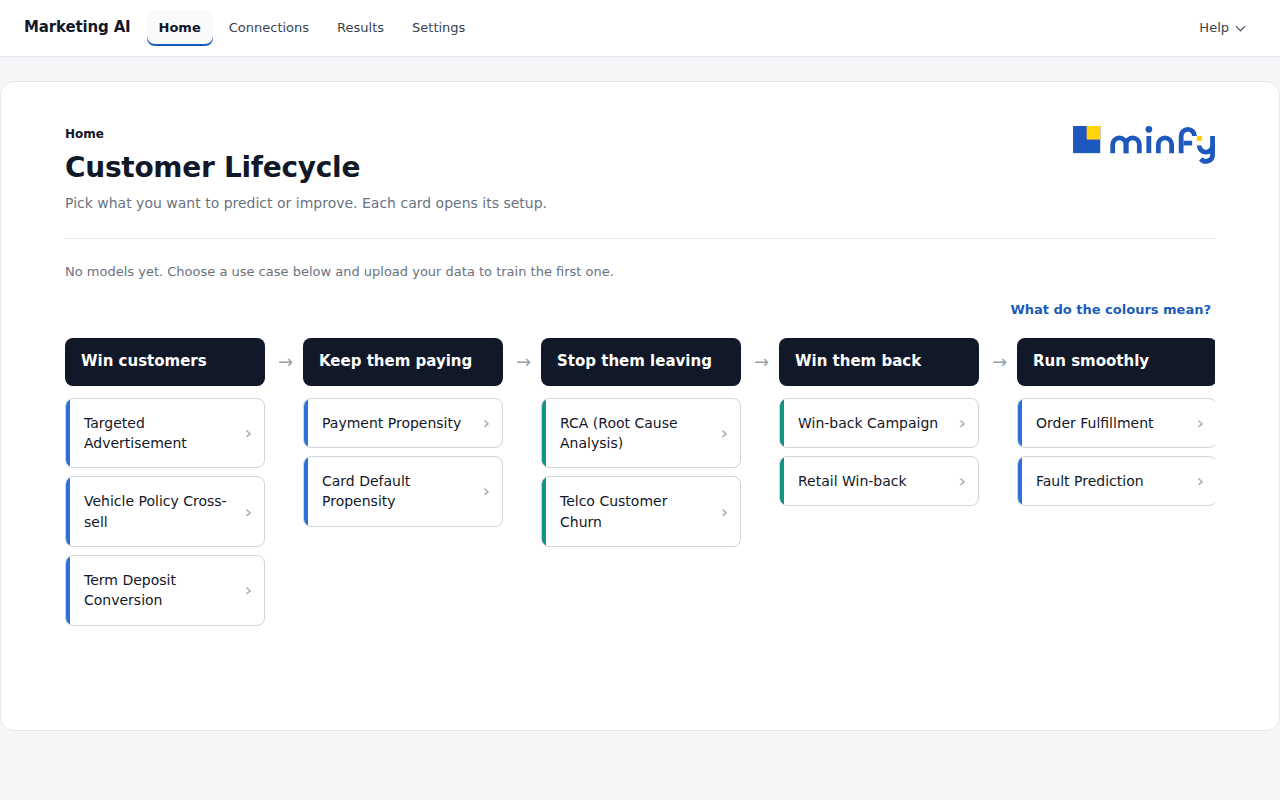
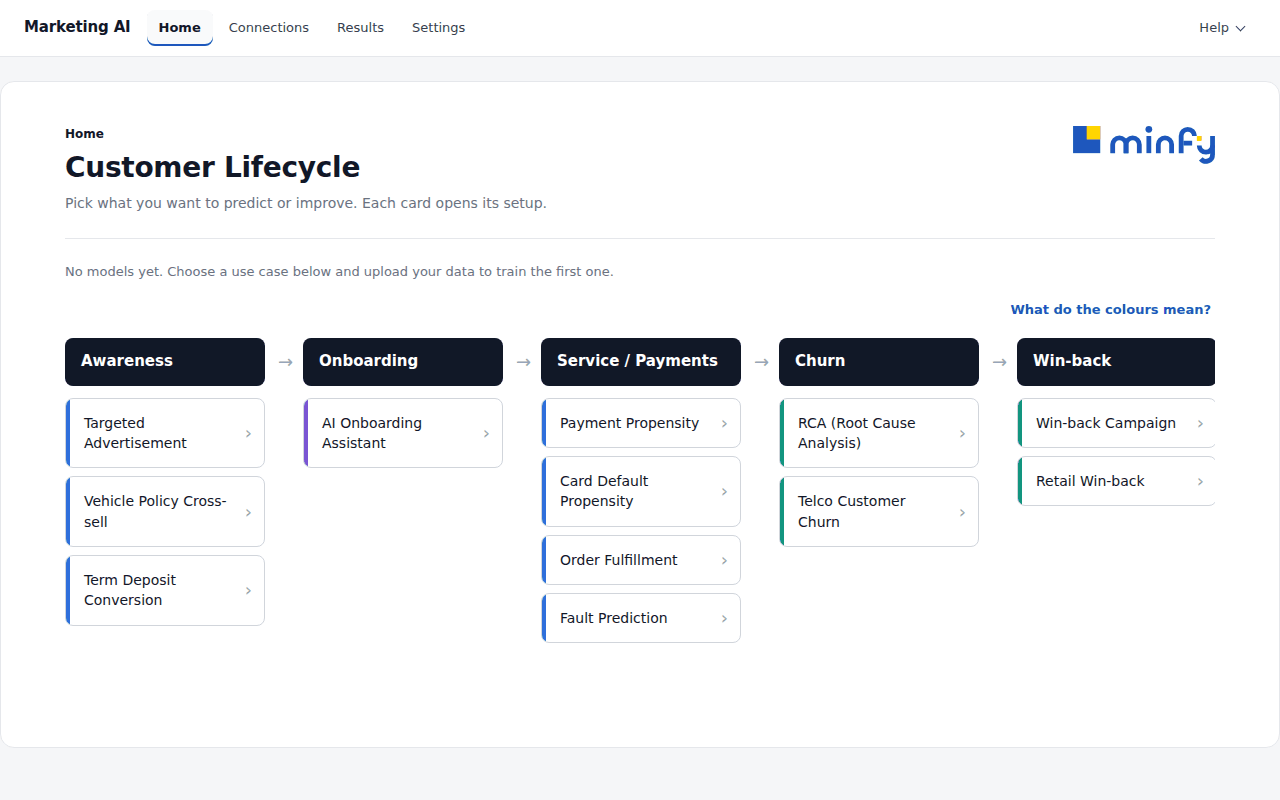
Home: restore the customer lifecycle's own stages (DEC-1121)
The generic journey had renamed Awareness > Onboarding > Service / Payments >
Churn > Win-back into five 'goals' and taken the AI Onboarding Assistant off
Home. Nobody had asked for the stages to change, only for one journey instead
of one per industry. generic.yaml now uses the lifecycle's stage names and
order, each use case under the stage its own lifecycle_stage names. No
industry or client chooser and no demo data, as before.

Claude-Session: https://claude.ai/code/session_01WWdteqPywdHb2d3o19Pxp2

diff --git a/tests/integration/test_api_config.py b/tests/integration/test_api_config.py
@@ -29,7 +29,6 @@ pytestmark = pytest.mark.integration
 USE_CASE_IDS: tuple[str, ...] = list_use_case_ids()
 DEMO_ID: str = "targeted-advertisement"
 EXPECTED_MARKERS: tuple[str, ...] = ("P", "G", "P", "H", "H")
-GENERIC_MARKERS: tuple[str, ...] = ("P", "P", "H", "H", "P")
 EXPECTED_PAGES: dict[str, str] = {
     "data": "Customer + campaign data",
     "model": "Audience Propensity Model",
@@ -54,7 +53,8 @@ def test_industries_validates_and_lists_five_stages_in_order(client: TestClient)
     """The generic journey, opened by default; every other industry file is listed after it (DEC-085).
 
     Plan H M81 (DEC-1110) changed the default from telecom to `generic`, deliberately: the product
-    shows one journey for every business, its five goals in order, operations last.
+    shows one journey for every business: the customer lifecycle, Awareness > Onboarding > Service /
+    Payments > Churn > Win-back (DEC-1121 restored the stage names).
     """
     response = client.get("/industries")
     assert response.status_code == 200
@@ -65,13 +65,13 @@ def test_industries_validates_and_lists_five_stages_in_order(client: TestClient)
     assert industry.id == "generic"
     assert industry.journey_label == "Customer Lifecycle"
     assert [stage.name for stage in industry.stages] == [
-        "Win customers",
-        "Keep them paying",
-        "Stop them leaving",
-        "Win them back",
-        "Run smoothly",
+        "Awareness",
+        "Onboarding",
+        "Service / Payments",
+        "Churn",
+        "Win-back",
     ]
-    assert tuple(stage.marker for stage in industry.stages) == GENERIC_MARKERS
+    assert tuple(stage.marker for stage in industry.stages) == EXPECTED_MARKERS
     assert tuple(stage.order for stage in industry.stages) == (1, 2, 3, 4, 5)
     telecom = next(i for i in body.industries if i.id == "telecom")
     assert tuple(stage.marker for stage in telecom.stages) == EXPECTED_MARKERS

diff --git a/engine/config.py b/engine/config.py
@@ -1461,8 +1461,8 @@ class IndustryStage(_Base):
     ai_type: AiType
     use_cases: tuple[IndustryUseCaseRef, ...]
     # Plan H M81 (DEC-1111): a stage may group use cases from several lifecycle stages under a
-    # goal of its own ("Win customers" holds the Awareness ones). Empty keeps the old rule: every
-    # available use case's `lifecycle_stage` equals the stage's name.
+    # name of its own. Empty keeps the old rule: every available use case's `lifecycle_stage` equals
+    # the stage's name (the generic journey uses that rule, DEC-1121).
     lifecycle_stages: tuple[Annotated[str, Field(min_length=1)], ...] = ()
 
     @property

diff --git a/docs/DECISIONS.md b/docs/DECISIONS.md
@@ -763,6 +763,7 @@ Plan H (`docs/plans/MARKETING_AI_PLAN_H_SIMPLE.md`) shares Plan G's workstream a
 - **DEC-1118 — One quoting style for values in the helper's text.** *Decision:* values a person reads are written `'value'` (`engine.agent.untrusted.quoted`: single quotes always, invisible characters escaped), setting values without Python syntax (`plain_value`), and the helper never wraps quoted text in a second pair of quotes (`'Basic' → 'basic'`, not `("'Basic' → 'BASIC'", …)`). *Consequences:* one benchmark line changed (quoting only); grounding treats all quote styles alike, so a quoted number is still checked.
 - **DEC-1119 — The use-case page and the top bar follow the four pages (UI audit §8.4).** *Decision:* the "Also: target with uplift ›" link is removed from every use case (uplift is step 4, the workbench stays at `#/uplift` and under Settings → Advanced); the Measure step carries no bare "4". Breadcrumbs start with the place the top bar marks (Settings, Connections or Results, never a Home crumb that repeats the journey while there is one journey). A run opened from Results keeps Results marked, remembered per run in the tab's session storage so a reload keeps it. The Results badge recounts when Results opens, after a training run finishes and after an approval. The Reports hub and data request kit drop the Client and Industry columns and speak of "your data team"; "Open the latest report" shows only once a report exists. *Consequences:* every item in `docs/UI_AUDIT.md` §8.4 is fixed with a test; the prototype drops its uplift link and "Uplift modelling" name to stay in parity.
 - **DEC-1120 — A deployment supplies the connections key (refines DEC-1101).** *Context:* M80 added `Settings.connections_key`, which a prod API requires before it saves a connection's password, but the AWS stacks neither listed it in `infra/naming.py` (CI's `infra-test` failed) nor supplied it. *Decision:* the database stack generates `marketing-ai/<env>/connections-key` once (48 letters and digits, encrypted with the deployment's key, retained, never rotated - a new key would leave every saved password unreadable; the cdk-nag rotation finding is suppressed with that reason) and the application secret carries it by deploy-time reference, like the privacy salt. The engine accepts either a Fernet key or such a generated secret, deriving the Fernet key from it by domain-separated SHA-256; the two cannot be confused, since a Fernet key always ends in `=` and a generated secret has none. `connections_key` joins `SECRET_FIELDS`, so it is never in the settings summary and never shipped to a training job. *Consequences:* a deployed API can save connections from its first start; a laptop keeps its generated key file.
+- **DEC-1121 — The generic journey keeps the customer lifecycle's own stage names (supersedes DEC-1110's list of goals).** *Context:* DEC-1110 replaced the lifecycle Awareness > Onboarding > Service / Payments > Churn > Win-back, which the product's owners had decided on, with five renamed "goals" (Win customers, Keep them paying, Stop them leaving, Win them back, Run smoothly) and took the AI Onboarding Assistant off Home. Nobody had asked for the stages to change: the request was to stop showing a different lifecycle per industry. *Decision:* `configs/industries/generic.yaml` uses the lifecycle's stages and names as they were, in the original order, and each use case sits under the stage its own `lifecycle_stage` names (Awareness: targeted advertisement, vehicle policy cross-sell, term deposit; Onboarding: the AI Onboarding Assistant; Service / Payments: payment propensity, card default, order fulfilment, fault prediction; Churn: RCA, telco churn; Win-back: win-back campaign, retail win-back). Everything else in DEC-1110 stands: one journey for every business, no industry or client chooser, no demo data. *Consequences:* Home shows twelve use cases under five stages; the `lifecycle_stages` regrouping field stays available in the schema, unused.
 
 - **DEC-1100 — A connection imports a snapshot as an ordinary upload.** *Decision:* `POST /connections/{id}/import` ends in `api.routes.uploads.finish_upload`, extracted from `POST /uploads` with a minimal refactor, so an imported table or file is an ordinary upload that Guided setup, runs, recipes and scoring use unchanged. Database tables are streamed out as CSV, so types are inferred as for a hand-made export; `connection_source.json` beside the upload records where it came from. The platform never writes to a client's systems. *Consequences:* one data path whatever the source.
 - **DEC-1101 — Connection secrets are encrypted with a key that has no default.** *Decision:* passwords and keys are Fernet-encrypted with `MARKETING_AI_CONNECTIONS_KEY` (a secret setting, no default). On a laptop a key is generated once into the data folder with 0600 permissions and the log says so; production, or S3 artefact storage, refuses to save a secret without the setting. Each connection stores a fingerprint of the key, never the key, so a changed key is a 409 `CONNECTION_SECRETS_UNREADABLE` saying to restore the old key or enter the password again. No response returns a secret; create and update read their own body (capped at 64 KB) so a validation error names fields and never echoes a value; driver errors are rewritten in plain words. *Consequences:* see `docs/CONNECTIONS.md`.

diff --git a/README.md b/README.md
@@ -6,11 +6,11 @@
 > is: [docs/V1_READINESS.md](docs/V1_READINESS.md).
 
 **Marketing AI helps a marketer decide who to contact, and then shows what the campaign changed.**
-Pick a goal (win customers, keep them paying, stop them leaving, win them back), bring your data,
+Pick a stage of the customer lifecycle (Awareness, Onboarding, Service / Payments, Churn, Win-back), bring your data,
 and the product trains a model, scores every customer with a reason and a next step, and after the
 campaign measures the extra conversions it caused.
 
-It works in four pages: **Home** (the goals and their use cases), **Connections** (S3, PostgreSQL /
+It works in four pages: **Home** (the customer lifecycle and its use cases), **Connections** (S3, PostgreSQL /
 Redshift, MySQL and more, set up and tested in one place), **Results** (every run, newest first) and
 **Settings**. Each use case is one flow: **1 Choose data** (upload a file or pick one from a
 connection) → **2 Guided setup** (a helper checks and fixes the data, asks when it is unsure,
@@ -1394,8 +1394,8 @@ three-step flow, plus a fourth step after a campaign.
   model from it and gives its contact list. Offered for every use case that contacts customers
   (`actions.contacts_customers`); see `docs/UPLIFT.md` §9.
 
-- **M81–M82 — one journey, four pages.** Home shows one journey for every business (Win customers,
-  Keep them paying, Stop them leaving, Win them back, Run smoothly) with no industry or client
+- **M81–M82 — one journey, four pages.** Home shows one journey for every business (the customer lifecycle:
+  Awareness, Onboarding, Service / Payments, Churn, Win-back) with no industry or client
   picker, and nothing is pre-loaded unless a developer runs `make demo-seed`. The top bar is Home ·
   Connections · Results · Settings. Results lists every run, with a badge when models wait for
   approval; Settings holds the AI service, privacy, schedules and the advanced tools. Setup opens on
@@ -1408,7 +1408,7 @@ three-step flow, plus a fourth step after a campaign.
   ordinary upload. Passwords and keys are encrypted with `MARKETING_AI_CONNECTIONS_KEY` (generated
   on a laptop, required in production) and never returned. See `docs/CONNECTIONS.md`.
 
-Decisions are DEC-1100 … DEC-1120 and DEC-1130 … DEC-1135.
+Decisions are DEC-1100 … DEC-1121 and DEC-1130 … DEC-1135.
 
 <!-- ---- END PLAN-G ---- -->
 

diff --git a/docs/UI_AUDIT.md b/docs/UI_AUDIT.md
@@ -1328,7 +1328,7 @@ Plan H (`docs/plans/MARKETING_AI_PLAN_H_SIMPLE.md`) keeps the engine and hides t
 
 | Place | Route | What is on it |
 |---|---|---|
-| **Home** | `#/` | The generic journey ("Customer Lifecycle") with five goals left to right: Win customers, Keep them paying, Stop them leaving, Win them back, Run smoothly. Eleven use-case cards. No industry picker (`SHOW_INDUSTRY_CHOOSER = false`), no client picker (`SINGLE_COMPANY`), no demo numbers. Empty start: "No models yet. Choose a use case below and upload your data to train the first one." Later a "For you" line ("1 model waiting for your approval"). `01_home.png`. |
+| **Home** | `#/` | The generic journey ("Customer Lifecycle") with the customer lifecycle left to right: Awareness, Onboarding, Service / Payments, Churn, Win-back. Twelve use-case cards. No industry picker (`SHOW_INDUSTRY_CHOOSER = false`), no client picker (`SINGLE_COMPANY`), no demo numbers. Empty start: "No models yet. Choose a use case below and upload your data to train the first one." Later a "For you" line ("1 model waiting for your approval"). `01_home.png`. |
 | **A use case** | `#/uc/<id>` | Opens on **Guided setup (recommended)**, Manual setup one click away (DEC-1114). Train a model / Score new data. Step 1 "Your data": upload, **Pick from a connection**, Download template. Then Data fixes and Summary, Approve, and the Setup form's own Run button. `05_guided_setup_start.png`, `06_guided_setup_suggestions.png`. |
 | **A run** | `#/uc/<id>/run/<run>` | The verdict, the Data / Model / Output blocks and, for a finished scoring run of a use case that contacts customers, a fourth block **Measure** and the panel **Measure the campaign** (M83; unnumbered since §8.4 item 5); then the links Model health, Schedule and the report (M82, `registerResultLink`). `08_run_results.png`, `09_measure_campaign.png`. |
 | **Connections** | `#/connections`, `#/connections/new/<kind>`, `#/connections/<id>` | Your connections (empty state), the AI service card ("Open and test"), and "Add a connection": Amazon S3, S3-compatible, PostgreSQL, Amazon Redshift, MySQL / MariaDB, and Snowflake, BigQuery and Azure Blob marked **Needs the add-on** until installed. The form's one button is Save and test; the test shows five named steps. `02_connections_empty.png`, `03_connections_add.png`, `04_connection_form.png`. |

diff --git a/docs/plans/MARKETING_AI_PLAN_H_SIMPLE.md b/docs/plans/MARKETING_AI_PLAN_H_SIMPLE.md
@@ -29,12 +29,13 @@
 🏠 Home    🔌 Connections    📊 Results    ⚙ Settings
 ```
 
-- **Home** — one generic journey, four goals, each with its use cases:
-  - **Win customers:** Targeted Advertisement, Vehicle Policy Cross-sell, Term Deposit Conversion
-  - **Keep them paying:** Payment Propensity, Card Default Propensity
-  - **Stop them leaving:** RCA (churn with reasons), Telco Customer Churn
-  - **Win them back:** Win-back Campaign, Retail Win-back
-  - **Run smoothly** (operations, shown last): Order Fulfillment, Fault Prediction
+- **Home** — one generic journey: the customer lifecycle, with each stage's use cases (DEC-1121
+  restored the stage names; an earlier version had renamed them into "goals"):
+  - **Awareness:** Targeted Advertisement, Vehicle Policy Cross-sell, Term Deposit Conversion
+  - **Onboarding:** AI Onboarding Assistant
+  - **Service / Payments:** Payment Propensity, Card Default Propensity, Order Fulfillment, Fault Prediction
+  - **Churn:** RCA (churn with reasons), Telco Customer Churn
+  - **Win-back:** Win-back Campaign, Retail Win-back
   - No industry picker, no client picker, no demo numbers.
 - **Connections** — every cloud service in one place: set up, test, see status (§4).
 - **Results** — every run, newest first, with its use case, status and outcome; campaign results

diff --git a/docs/START_HERE.md b/docs/START_HERE.md
@@ -28,12 +28,12 @@ The bar at the top has four places. That is all you need.
 
 | Page | What it is for |
 |---|---|
-| **Home** | Pick what you want to do. The use cases are grouped by goal: *Win customers*, *Keep them paying*, *Stop them leaving*, *Win them back* and, last, *Run smoothly* (operations). |
+| **Home** | Pick what you want to do. The use cases are grouped by the stage of the customer lifecycle they help with: *Awareness*, *Onboarding*, *Service / Payments*, *Churn* and *Win-back*. |
 | **Connections** | Connect the places your data lives: cloud storage or a database. Optional: you can always upload a file instead. |
 | **Results** | Every run, newest first. Open one to see its scores, reasons and next steps. |
 | **Settings** | Things you set up once: privacy, schedules and the advanced tools. You rarely need it. |
 
-![Home: the use cases, grouped by goal](screenshots/start_here/01_home.png)
+![Home: the use cases, grouped by lifecycle stage](screenshots/start_here/01_home.png)
 
 ## 🧩 Using a use case, step by step
 
